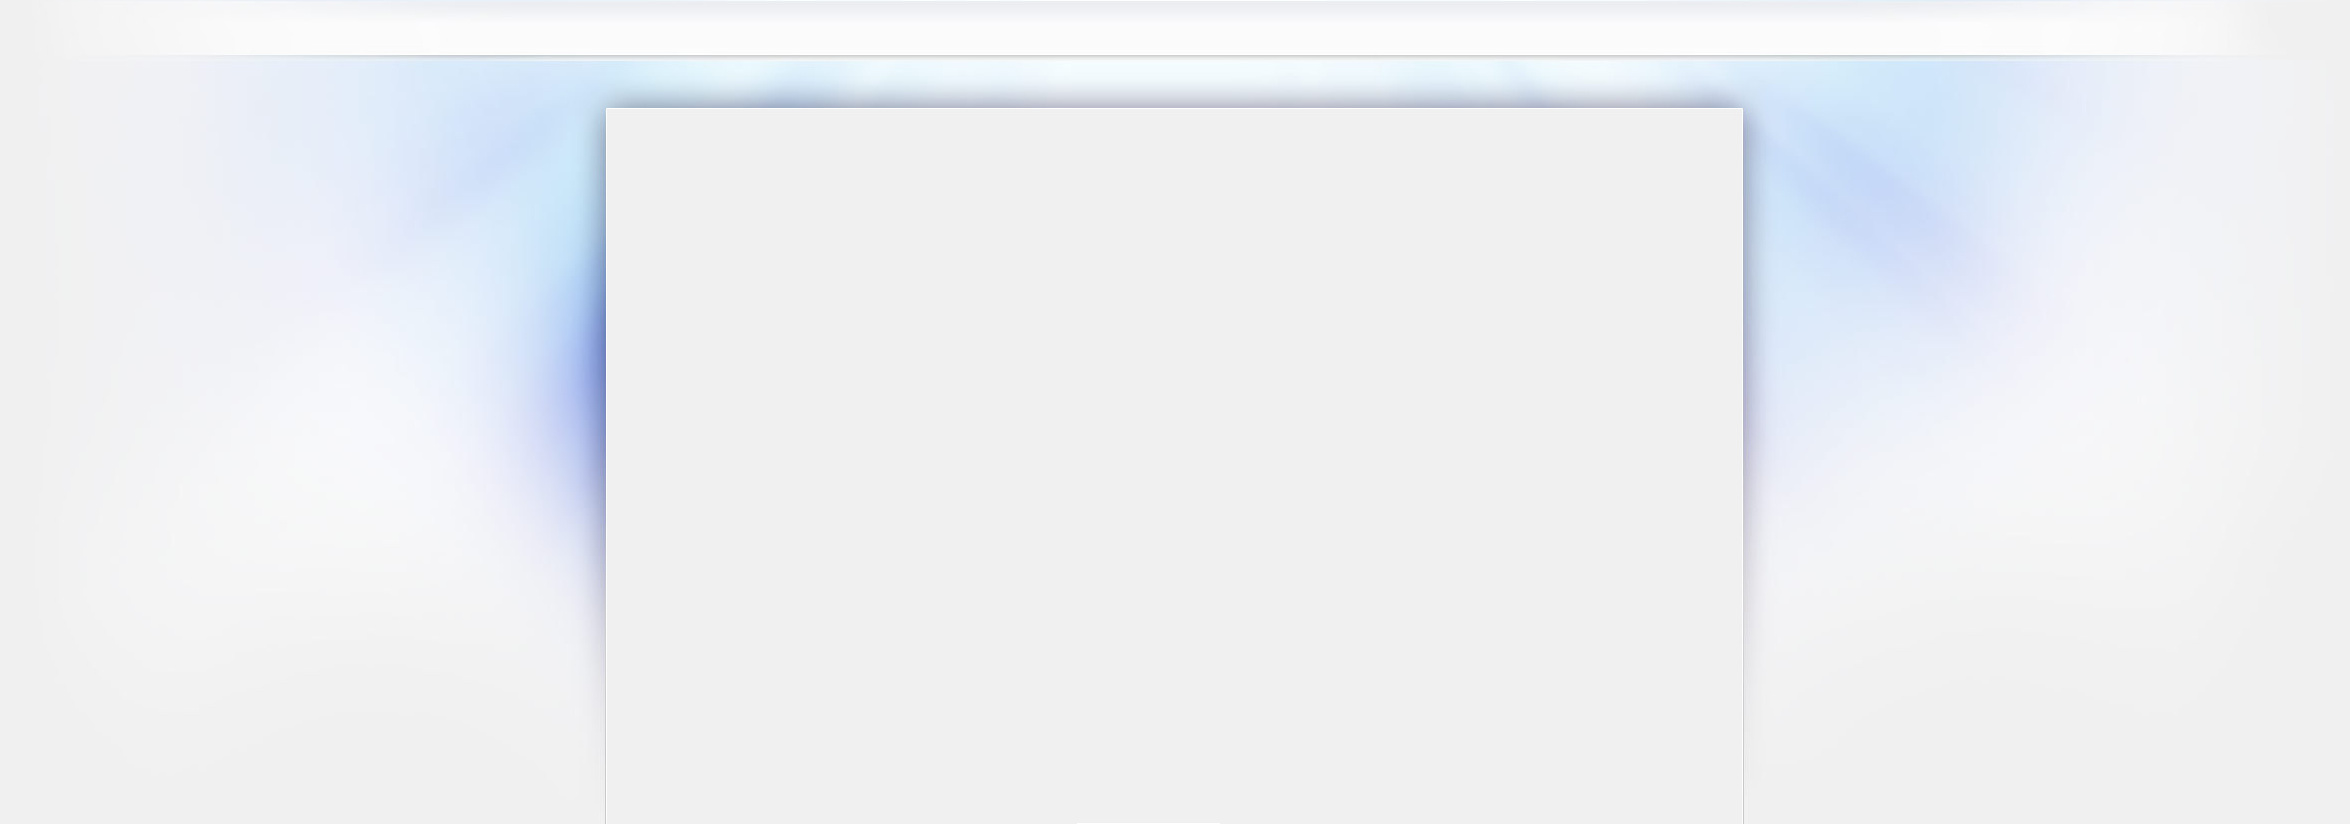
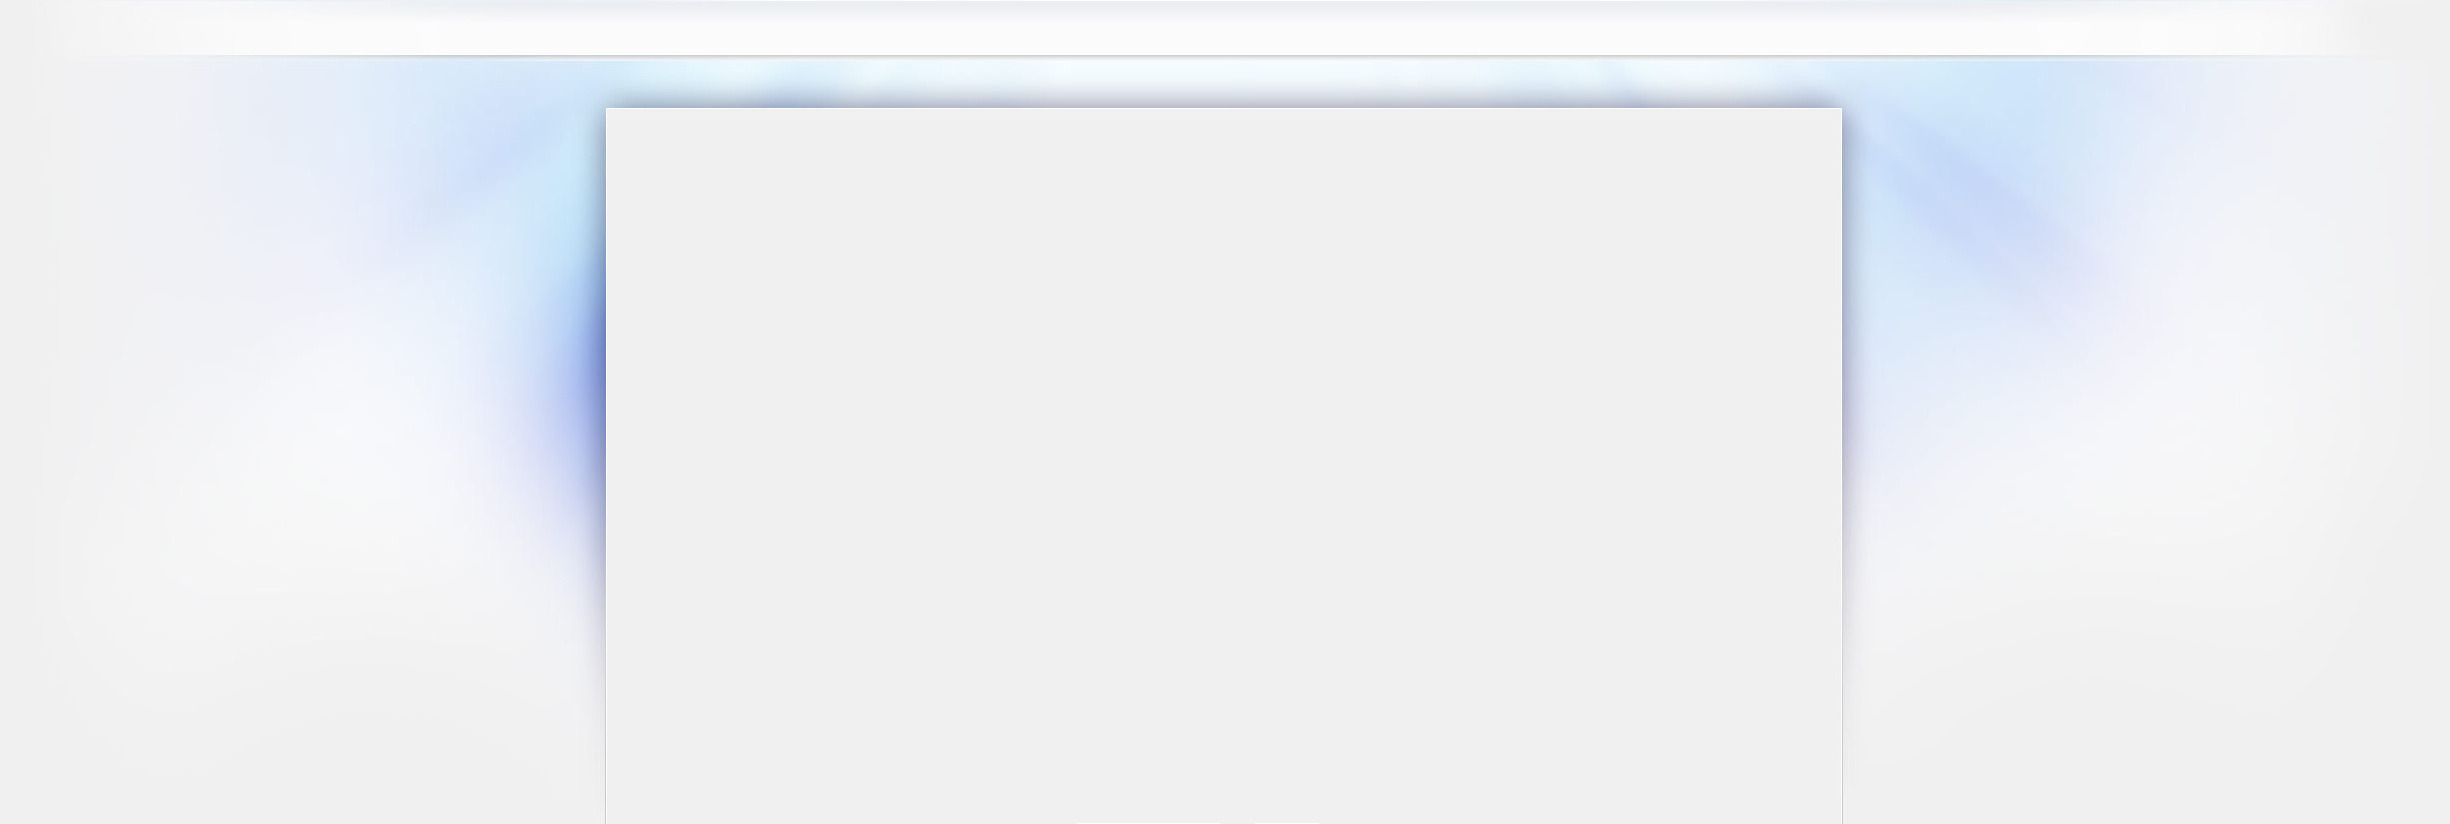
Changed window size from 1138px to 1238px

Changed region(s): [[0.2174, 0.1214, 0.2796, 0.7585], [0.7145, 0.1214, 0.7766, 0.6371]]

diff --git a/css/finance5/main.css b/css/finance5/main.css
@@ -73,7 +73,7 @@ body {
     clear: both;
     margin: 0 auto;
     padding: 0 0 20px 0;
-    width: 1138px;
+    width: 1238px;
     min-height:650px;
     margin-top: 110px;
 }
@@ -81,7 +81,7 @@ body {
 #content {
     top: 7px;
     left: 18px;
-    width: 1098px;
+    width: 1198px;
     position: relative; 
     border: 0px none; 
     z-index: 99; 
@@ -97,7 +97,7 @@ body {
     line-height: 19px;
     margin: 0 auto;
     padding: 0;
-    width: 1138px;
+    width: 1238px;
     margin-bottom: 20px;
 }
 
@@ -116,7 +116,7 @@ body {
 }
 
 #container-navigation {
-        width: 1136px;
+        width: 1236px;
         height: 50px;
         margin: 0;
         padding: 0;

diff --git a/templates/webpages/gl/form_footer.html b/templates/webpages/gl/form_footer.html
@@ -45,6 +45,5 @@
       [% L.hidden_tag('draft_id', draft_id) %]
       [% L.hidden_tag('draft_description', draft_description) %]
 [%- END %]
-
   </form>
-
+</td></tr></table>

diff --git a/templates/webpages/inventory/warehouse_selection_stock.html b/templates/webpages/inventory/warehouse_selection_stock.html
@@ -3,7 +3,7 @@
 [%- USE HTML %]
 [%- USE LxERP %]
 
-<h1>[% title | html %]</div>
+<h1>[% title | html %]</h1>
 
 [%- PROCESS 'common/flash.html' %]
 
